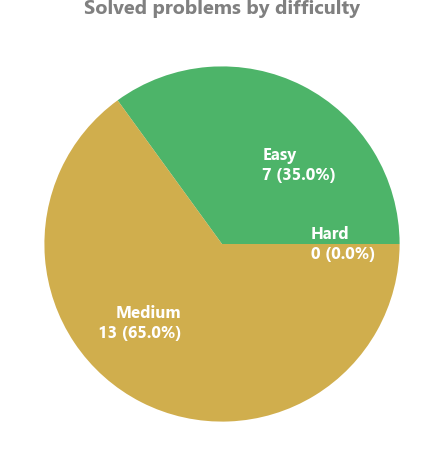
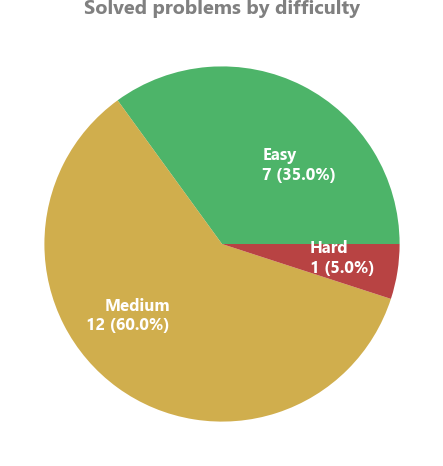
reenabled hard problems on analysis.py

Changed region(s): [[0.4989, 0.4807, 0.9097, 0.6609], [0.2054, 0.6309, 0.4108, 0.7511]]

diff --git a/analysis.py b/analysis.py
@@ -54,7 +54,7 @@ df = pd.read_csv('analysis.csv')
 
 # solved problems by difficulty
 agr_pie(
-    df[df["Difficulty"]!="Hard"]["Difficulty"],
+    df[df["Solved?"]=="Yes"]["Difficulty"],
     labels=["Easy", "Medium", "Hard"],
     colors=[Colors.GREEN, Colors.YELLOW, Colors.RED],
     title="Solved problems by difficulty",
